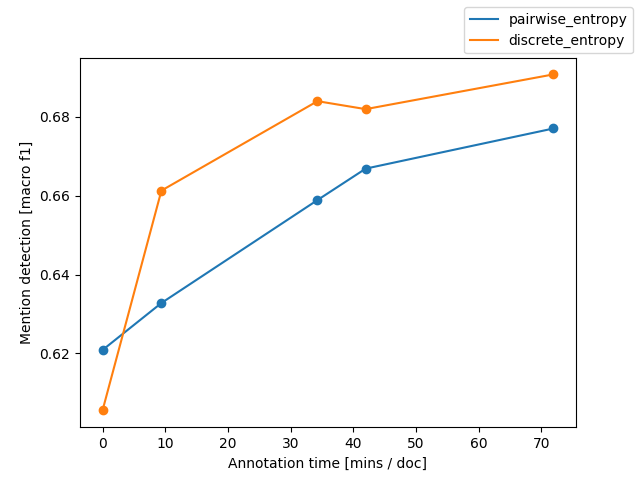
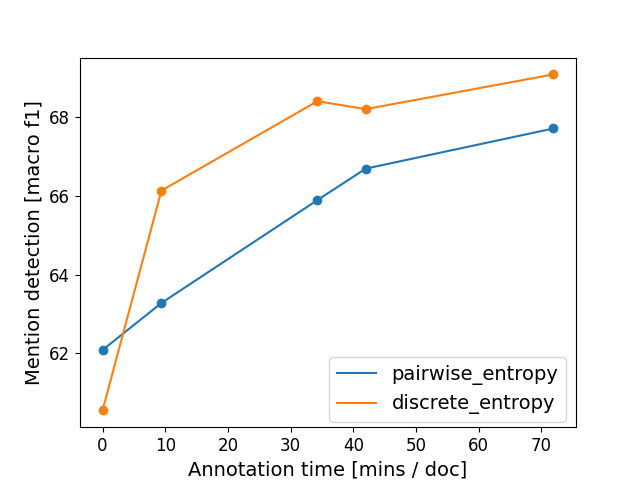
error analysis scripts

diff --git a/error_analysis/analyze.py b/error_analysis/analyze.py
@@ -14,16 +14,28 @@ import numpy as np
 from collections import defaultdict
 from glob import glob
 import matplotlib.pyplot as plt
+import matplotlib.ticker as ticker
+from allennlp.models.coreference_resolution.coref import ConllCorefScores
+import spacy
+from spacy.tokenizer import Tokenizer
+
+plt.rcParams.update({'font.size': 14})
+plt.rc('xtick', labelsize=12)
+plt.rc('ytick', labelsize=12)
 
 # Local imports
 
 #----
 
+# global spacy instance
+nlp = spacy.load("en_core_web_sm", disable = ["parser", "ner"])
+nlp.tokenizer = Tokenizer(nlp.vocab) # tokenize using whitespace
+
 
 flatten = lambda l: [item for sublist in l for item in sublist]
 f1 = lambda p, r: ((2*p*r) / (p + r)) if (p + r) else 0
-pr = lambda intr, pred: (intr / pred) if pred else 1
-rc = lambda intr, gold: (intr / gold) if gold else 1
+pr = lambda intr, pred: 100 * (intr / pred) if pred else 100
+rc = lambda intr, gold: 100 * (intr / gold) if gold else 100
 
 # conersions from (annotations / doc) to (min / doc)
 TIME_CONVERSIONS = {0: 0.0, 200: 71.91751439779348, 100: 41.96964765646017, 80: 34.27887468868257, 20: 9.38844897854418}
@@ -37,7 +49,7 @@ def get_entities(doc, clusters):
     for clust in clusters:
         ent_clust = []
         for (s, e) in clust:
-            ent_clust.append(" ".join(doc[s : e + 1]))
+            ent_clust.append(doc[s : e + 1])
         ent_clusts.append(ent_clust)
     return ent_clusts
 
@@ -78,6 +90,15 @@ def macro_f1(pred_cnts, gold_cnts, intr_cnts):
                  "r": macro_r}
     return ret_dict
 
+def contains_pronoun(cluster):
+    """
+    Returns True iff the given cluster contains a pronoun.
+    """
+    for mention in cluster:
+        if any([w.tag_.startswith("PRP") for w in mention]):
+            # Found a mention with a pronoun
+            return True
+    return False
 
 def get_stats(inp_fn):
     """
@@ -86,13 +107,30 @@ def get_stats(inp_fn):
     ent_pred_cnts = []
     ent_gold_cnts = []
     ent_intr_cnts = []
+    ccs = ConllCorefScores()
     jsons = [json.loads(line) for line in open(inp_fn, encoding = "utf8")]
     for doc_dict in jsons:
-        cur_doc = doc_dict["document"]
-        gold_clusts = get_entities(cur_doc, doc_dict["gold_clusters"])
-        pred_clusts = get_entities(cur_doc, doc_dict["clusters"])
-        pred_ents = set(flatten(pred_clusts))
-        gold_ents = set(flatten(gold_clusts))
+        cur_doc = nlp(" ".join(doc_dict["document"]))
+        gold_clusts = doc_dict["gold_clusters"]
+        pred_clusts = doc_dict["clusters"]
+
+        gold_ent_clusts = get_entities(cur_doc, gold_clusts)
+        pred_ent_clusts = get_entities(cur_doc, pred_clusts)
+
+        gold_clusts_pronouns = [gold_clust
+                                for gold_clust, gold_ent_clust
+                                in zip(gold_clusts, gold_ent_clusts)
+                                if contains_pronoun(gold_ent_clust)]
+
+        pred_clusts_pronouns = [pred_clust
+                                for pred_clust, pred_ent_clust
+                                in zip(pred_clusts, pred_ent_clusts)
+                                if contains_pronoun(pred_ent_clust)]
+
+        update_avg_f1(ccs, gold_clusts_pronouns, pred_clusts_pronouns)
+
+        pred_ents = set(map(str, flatten(pred_ent_clusts)))
+        gold_ents = set(map(str, flatten(gold_ent_clusts)))
         if (not pred_ents) and (not gold_ents):
             #TODO: what's going on in these instances?
             continue
@@ -103,7 +141,9 @@ def get_stats(inp_fn):
 
     ent_micro = micro_f1(ent_pred_cnts, ent_gold_cnts, ent_intr_cnts)
     ent_macro = macro_f1(ent_pred_cnts, ent_gold_cnts, ent_intr_cnts)
-    ret_dict = {"ent_micro": ent_micro, "ent_macro": ent_macro}
+    ret_dict = {"ent_micro": ent_micro,
+                "ent_macro": ent_macro,
+                "pronoun_avg_f1": get_avg_f1(ccs)}
 
     logging.debug(f"micro = {ent_micro['f1']:.2f}, macro = {ent_macro['f1']:.2f}")
 
@@ -130,20 +170,52 @@ def plot_stats(model_dicts, out_fn, x_title, y_title, *keys):
         plot_data[model_name_str].append(ys)
 
     # Plot
-    fig, ax1 = plt.subplots()
+    fig, ax = plt.subplots()
     for model_name, model_data in plot_data.items():
         xs, ys = model_data
 
         # Convert to min / doc
         xs = [TIME_CONVERSIONS[x] for x in xs]
 
-        ax1.plot(xs, ys, label = model_name)
-        ax1.scatter(xs, ys)
+        ax.plot(xs, ys, label = model_name)
+        ax.scatter(xs, ys)
 
-    ax1.set_xlabel(x_title)
-    ax1.set_ylabel(y_title)
-    fig.legend()
+    # Fix plot formatting
+    s, e = ax.get_ylim()
+    # ax.yaxis.set_ticks(np.arange(s, e + 1, 1))
+    # ax.yaxis.set_major_formatter(ticker.FormatStrFormatter('%0.0f'))
+    ax.set_xlabel(x_title)
+    ax.set_ylabel(y_title)
+    fig.legend(loc = 'lower right', bbox_to_anchor=(0.9, 0.1))
     fig.savefig(out_fn)
+
+
+def update_avg_f1(ccs, gold_clusters, pred_clusters):
+    """
+    update our average f1 for the predicted vs. gold clusters.
+    """
+    gold_clusters, mention_to_gold = ccs.get_gold_clusters(gold_clusters)
+    pred_clusters, mention_to_pred = ccs.get_gold_clusters(pred_clusters)
+
+    # update scores
+    scorers = ccs.scorers
+
+    for scorer in scorers:
+        scorer.update(pred_clusters, gold_clusters,
+                      mention_to_pred, mention_to_gold)
+
+def get_avg_f1(ccs):
+    """
+    get our average f1 for the predicted vs. gold clusters.
+    """
+    scorers = ccs.scorers
+    f1_scores = []
+    for scorer in scorers:
+        f1_scores.append(scorer.get_f1())
+
+    avg_f1 = np.average(f1_scores)
+
+    return avg_f1
 
 if __name__ == "__main__":
     # Parse command line arguments
@@ -159,6 +231,7 @@ if __name__ == "__main__":
         logging.basicConfig(level = logging.INFO)
 
     # Start computation
+
     model_dicts = defaultdict(dict)
     for model_dir in tqdm(inp_fns):
         logging.info(f"Analyzing {model_dir}")
@@ -177,6 +250,12 @@ if __name__ == "__main__":
                out_fn / "mention_micro.png",
                "Annotation time [mins / doc]", "Mention detection [micro f1]",
                "ent_micro", "f1")
+
+    plot_stats(model_dicts,
+               out_fn / "pronoun_avg_f1.png",
+               "Annotation time [mins / doc]", "Pronoun clusters [avg f1]",
+               "pronoun_avg_f1")
+
 
     # End
     logging.info("DONE")
